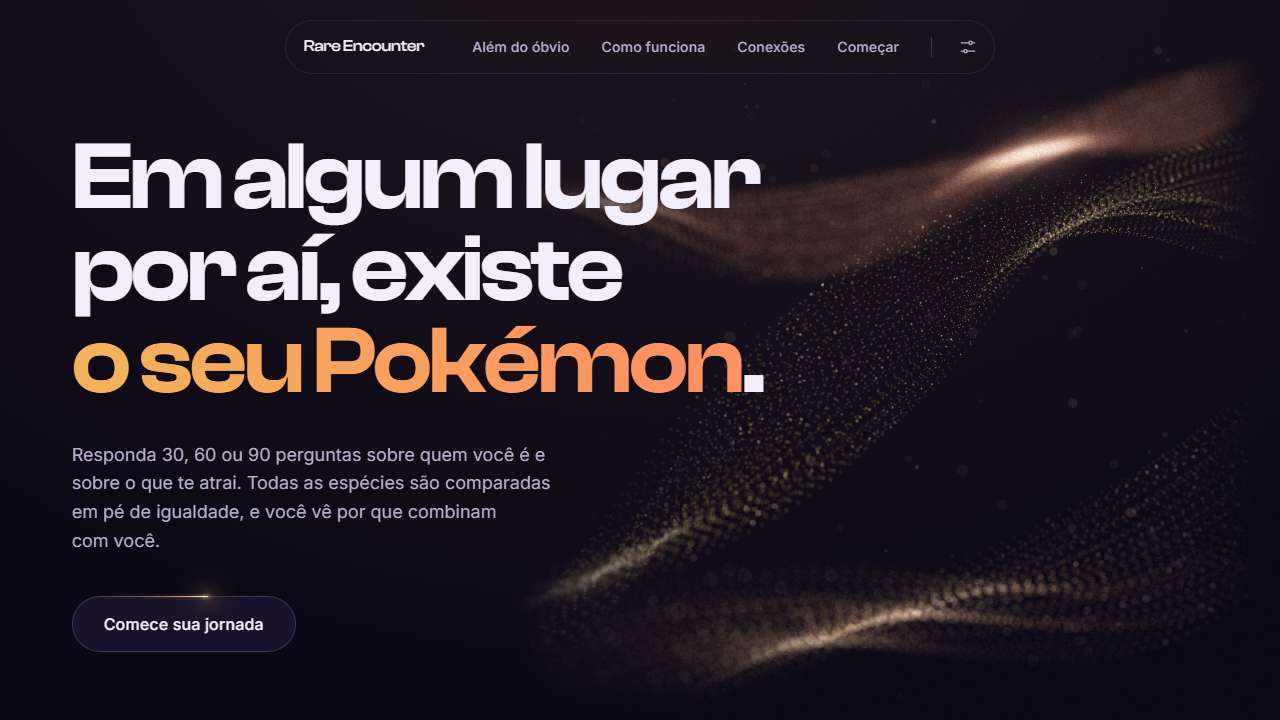
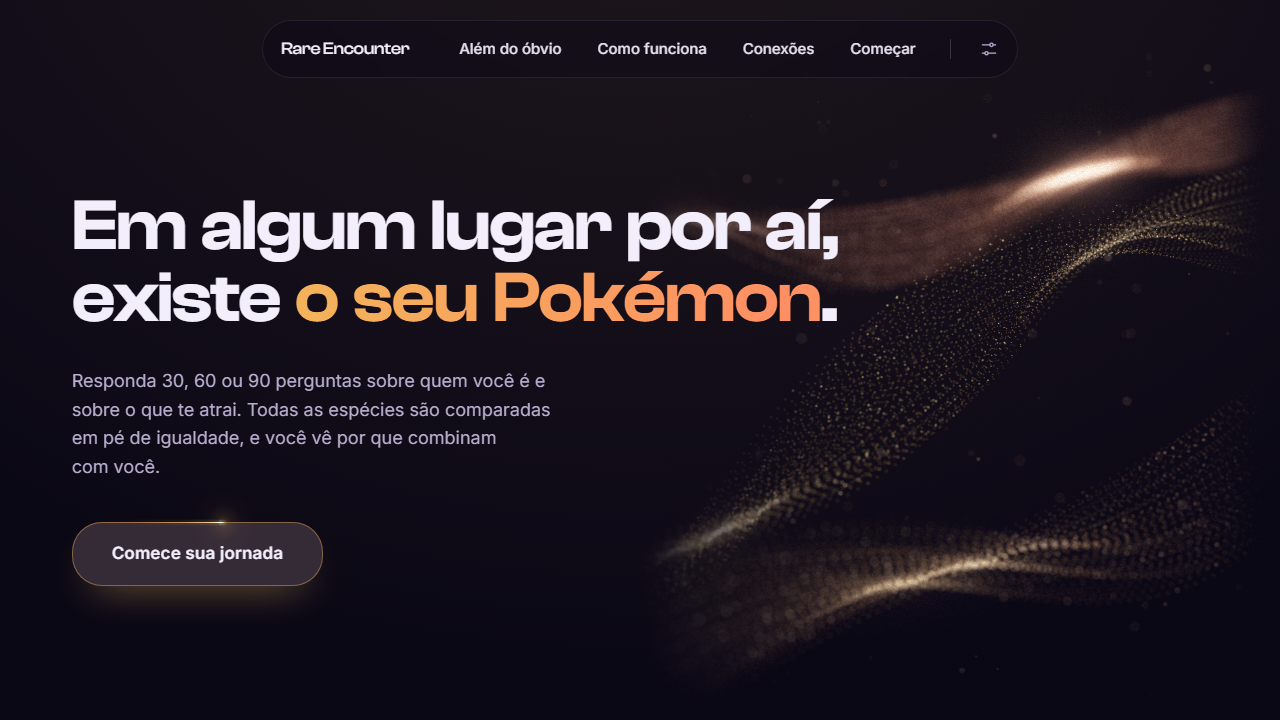
refine(phase-01b): checkpoint 01 hero — headline phrasing, fibers placement, CTA presence, nav legibility, motion timing
Adds vendor integrity check (SHA-256 manifest) to npm run check.

diff --git a/src/pages/landing/Hero.css b/src/pages/landing/Hero.css
@@ -1,7 +1,7 @@
 /*
  * Editorial Split. Copy aligns to the content column's left edge; Ghost Fibers own the
- * right half and bleed to the viewport edge, fading into the night where they meet the type.
- * Below 900px the fibers become the upper backdrop and the copy settles at the bottom.
+ * right side and bleed to the viewport edge, fading out before they reach the type.
+ * Phones and tablets stack: fibers form the upper band, copy settles beneath it.
  */
 .hero {
   --hero-inline-start: max(var(--gutter), calc((100vw - var(--content-max)) / 2 + var(--gutter)));
@@ -11,38 +11,42 @@
   display: grid;
   align-content: end;
   min-height: 100svh;
-  padding: calc(var(--nav-offset) + var(--space-8)) var(--gutter) var(--space-16);
+  padding: calc(var(--nav-offset) + var(--space-8)) var(--gutter) var(--space-12);
   overflow: hidden;
 }
 
 .hero__fibers {
   position: absolute;
-  inset: 0 0 32%;
+  inset: 0 0 46%;
   z-index: -1;
-  mask-image: linear-gradient(to bottom, #000 40%, transparent);
+  opacity: 0.85;
+  mask-image: linear-gradient(to bottom, #000 45%, transparent);
 }
 
 .hero__copy {
   display: grid;
   justify-items: start;
-  max-width: 40rem;
 }
 
+/*
+ * Clash Display's word space is narrow and negative tracking narrows it further, so the
+ * word gap is restored explicitly.
+ */
 .hero__title {
-  max-width: 11ch;
-  font-size: clamp(2.875rem, 1.25rem + 6.4vw, 6rem);
+  font-size: clamp(2.75rem, 1.6rem + 4.9vw, 3.5rem);
   font-weight: var(--weight-semibold);
-  line-height: 0.96;
-  letter-spacing: -0.035em;
+  line-height: 1;
+  letter-spacing: -0.025em;
+  word-spacing: 0.08em;
   text-wrap: balance;
 }
 
-.hero__line {
+.hero__phrase {
   display: inline;
 }
 
-/* Keep the highlight and its closing punctuation together on one line */
-.hero__line--highlight {
+/* The gradient phrase and its full stop never separate */
+.hero__highlight {
   display: inline-block;
   white-space: nowrap;
 }
@@ -54,23 +58,24 @@
 }
 
 .hero__lead {
-  max-width: 44ch;
+  max-width: 40ch;
   margin-block-start: var(--space-6);
   color: var(--color-text-muted);
-  font-size: var(--text-lg);
+  font-size: var(--text-md);
   line-height: var(--leading-body);
 }
 
 .hero__actions {
-  margin-block-start: var(--space-10);
+  margin-block-start: var(--space-8);
 }
 
 .hero .hero__cta {
-  min-height: 3.5rem;
+  min-height: 3.75rem;
   padding-inline: var(--space-8);
-  font-size: var(--text-md);
-  font-weight: var(--weight-medium);
+  font-size: 1.0625rem;
+  font-weight: var(--weight-semibold);
   letter-spacing: var(--tracking-label);
+  box-shadow: 0 18px 40px -22px color-mix(in oklab, var(--accent) 70%, transparent);
 }
 
 .hero .hero__cta:focus-visible {
@@ -78,23 +83,63 @@
   outline-offset: 4px;
 }
 
+/* Tablet and up: one phrase per line, breaking at the comma */
+@media (min-width: 48em) {
+  .hero {
+    min-height: min(100svh, 56rem);
+  }
+
+  .hero__fibers {
+    inset: 0 0 36%;
+  }
+
+  .hero__title {
+    font-size: clamp(3.25rem, 0.6rem + 5.5vw, 4.25rem);
+  }
+
+  .hero__phrase {
+    display: block;
+    white-space: nowrap;
+  }
+
+  .hero__lead {
+    max-width: 44ch;
+    font-size: var(--text-lg);
+  }
+
+  .hero .hero__cta {
+    min-height: 4rem;
+    padding-inline: var(--space-10);
+  }
+}
+
+/* Desktop: the split */
 @media (min-width: 56.25em) {
   .hero {
+    /* Headline size drives where the fibers begin, so the two never fight for space */
+    --hero-title-size: clamp(3.5rem, 1.4rem + 3.9vw, 5.75rem);
+
     align-content: center;
-    padding: calc(var(--nav-offset) + var(--space-8)) var(--gutter) var(--space-16)
+    min-height: 100svh;
+    padding: calc(var(--nav-offset) + var(--space-6)) var(--gutter) var(--space-16)
       var(--hero-inline-start);
   }
 
   .hero__fibers {
-    inset: 0 0 0 38%;
-    mask-image: linear-gradient(to right, transparent, #000 32%);
+    inset: 0 0 0 calc(var(--hero-inline-start) + var(--hero-title-size) * 7.5);
+    opacity: 1;
+    mask-image: linear-gradient(to right, transparent, #000 38%);
   }
 
-  .hero__copy {
-    max-width: min(46rem, 62%);
+  .hero__title {
+    font-size: var(--hero-title-size);
   }
 
   .hero__lead {
     margin-block-start: var(--space-8);
+  }
+
+  .hero__actions {
+    margin-block-start: var(--space-10);
   }
 }

diff --git a/src/pages/landing/Hero.tsx b/src/pages/landing/Hero.tsx
@@ -10,13 +10,18 @@ import './Hero.css';
 const GhostFibers = lazy(() => import('../../vendor/react-bits/GhostFibers/GhostFibers'));
 
 const EASE: [number, number, number, number] = [0.16, 1, 0.3, 1];
+const DURATION = 0.9;
 
-/** Cinematic staged entry: one sequence, played once. Fibers run their own built-in intro. */
+/**
+ * Cinematic staged entry: one sequence, played once, done in about 1.75s.
+ * The two headline phrases land first, then the lead and the CTA. The fibers fade in
+ * through their own built-in intro behind it.
+ */
 const STAGE = {
-  line: 0.15,
-  highlight: 0.45,
-  lead: 0.85,
-  cta: 1.05,
+  opening: 0.1,
+  payoff: 0.32,
+  lead: 0.68,
+  cta: 0.84,
 } as const;
 
 interface HeroProps {
@@ -35,9 +40,9 @@ export function Hero({ ctaTarget }: HeroProps) {
     reduceMotion
       ? { initial: false as const }
       : {
-          initial: { opacity: 0, y: '0.35em', filter: 'blur(10px)' },
+          initial: { opacity: 0, y: '0.25em', filter: 'blur(6px)' },
           animate: { opacity: 1, y: 0, filter: 'blur(0px)' },
-          transition: { duration: 1.1, delay, ease: EASE },
+          transition: { duration: DURATION, delay, ease: EASE },
         };
 
   return (
@@ -54,19 +59,23 @@ export function Hero({ ctaTarget }: HeroProps) {
       </div>
 
       <div className="hero__copy">
+        {/* Two phrases: they break at the comma from tablet up, and flow freely on phones */}
         <h1 id={titleId} className="hero__title">
-          <motion.span className="hero__line" {...enter(STAGE.line)}>
-            {t('landing.hero.before')}
+          <motion.span className="hero__phrase" {...enter(STAGE.opening)}>
+            {t('landing.hero.opening')}
           </motion.span>{' '}
-          <motion.span className="hero__line hero__line--highlight" {...enter(STAGE.highlight)}>
-            <GradientText
-              className="hero__gradient"
-              colors={[colors.accent, colors.accent2, colors.accent]}
-              animationSpeed={10}
-            >
-              {t('landing.hero.highlight')}
-            </GradientText>
-            {t('landing.hero.after')}
+          <motion.span className="hero__phrase" {...enter(STAGE.payoff)}>
+            {t('landing.hero.bridge')}{' '}
+            <span className="hero__highlight">
+              <GradientText
+                className="hero__gradient"
+                colors={[colors.accent, colors.accent2, colors.accent]}
+                animationSpeed={10}
+              >
+                {t('landing.hero.highlight')}
+              </GradientText>
+              {t('landing.hero.after')}
+            </span>
           </motion.span>
         </h1>
 
@@ -81,10 +90,10 @@ export function Hero({ ctaTarget }: HeroProps) {
             className="hero__cta"
             color={colors.accent}
             trailColor={colors.accent2}
-            backgroundColor={colors.surface}
+            backgroundColor={`color-mix(in oklab, ${colors.accent} 16%, ${colors.surface})`}
             textColor={colors.text}
-            borderColor={colors.line}
-            radius={28}
+            borderColor={`color-mix(in oklab, ${colors.accent} 42%, transparent)`}
+            radius={30}
           >
             {t('landing.hero.cta')}
           </StarBorder>

diff --git a/src/components/nav/SiteNav.css b/src/components/nav/SiteNav.css
@@ -61,7 +61,7 @@
    */
   .liquid-nav {
     --nav-pad: 0.375rem;
-    --nav-row: 2.5rem;
+    --nav-row: 2.75rem;
 
     display: flex;
     align-items: center;
@@ -75,11 +75,14 @@
       backdrop-filter var(--duration-slow) var(--ease-out);
   }
 
-  /* Morph: open at the top of the page (edge only), solid once reading starts */
+  /*
+   * Morph: airier at the top of the page (wider spacing, lighter veil that still keeps the
+   * labels legible over the fibers), solid once reading starts.
+   */
   .site-nav[data-scrolled='false'] .liquid-nav {
     gap: var(--space-4);
-    background: transparent;
-    backdrop-filter: none;
+    background: color-mix(in oklab, var(--color-bg) 42%, transparent);
+    backdrop-filter: blur(10px);
     box-shadow: none;
   }
 
@@ -89,7 +92,7 @@
   }
 
   .liquid-nav .logo__text {
-    font-size: var(--text-md);
+    font-size: 1.0625rem;
   }
 }
 
@@ -104,13 +107,13 @@
   position: relative;
   display: inline-flex;
   align-items: center;
-  min-height: var(--nav-row, 2.5rem);
-  padding-inline: var(--space-4);
+  min-height: var(--nav-row, 2.75rem);
+  padding-inline: 1.125rem;
   border-radius: var(--radius-pill);
-  color: var(--color-text-muted);
-  font-size: var(--text-sm);
+  color: color-mix(in oklab, var(--color-text) 78%, var(--color-text-muted));
+  font-size: 0.9375rem;
   font-weight: var(--weight-medium);
-  letter-spacing: var(--tracking-label);
+  letter-spacing: 0;
   text-decoration: none;
   transition: color var(--duration-fast) var(--ease-out);
 }

diff --git a/src/i18n/i18n.test.ts b/src/i18n/i18n.test.ts
@@ -41,7 +41,7 @@ describe('message catalogs', () => {
 describe('landing headline', () => {
   const assemble = (locale: (typeof LOCALES)[number]) => {
     const m = MESSAGES[locale];
-    return `${m['landing.hero.before']} ${m['landing.hero.highlight']}${m['landing.hero.after']}`;
+    return `${m['landing.hero.opening']} ${m['landing.hero.bridge']} ${m['landing.hero.highlight']}${m['landing.hero.after']}`;
   };
 
   it('reassembles the exact approved English source', () => {

diff --git a/src/i18n/messages/es.ts b/src/i18n/messages/es.ts
@@ -38,7 +38,8 @@ export const es: Messages = {
   'landing.nav.discovery': 'Cómo funciona',
   'landing.nav.connection': 'Conexiones',
   'landing.nav.begin': 'Comenzar',
-  'landing.hero.before': 'En algún lugar, ahí afuera, está',
+  'landing.hero.opening': 'En algún lugar, ahí afuera,',
+  'landing.hero.bridge': 'está',
   'landing.hero.highlight': 'tu Pokémon',
   'landing.hero.after': '.',
   'landing.hero.lead':

diff --git a/src/i18n/messages/pt-BR.ts b/src/i18n/messages/pt-BR.ts
@@ -38,7 +38,8 @@ export const ptBR: Messages = {
   'landing.nav.discovery': 'Como funciona',
   'landing.nav.connection': 'Conexões',
   'landing.nav.begin': 'Começar',
-  'landing.hero.before': 'Em algum lugar por aí, existe',
+  'landing.hero.opening': 'Em algum lugar por aí,',
+  'landing.hero.bridge': 'existe',
   'landing.hero.highlight': 'o seu Pokémon',
   'landing.hero.after': '.',
   'landing.hero.lead':

diff --git a/src/i18n/messages/en.ts b/src/i18n/messages/en.ts
@@ -36,7 +36,8 @@ export const en = {
   'landing.nav.discovery': 'How it works',
   'landing.nav.connection': 'Connections',
   'landing.nav.begin': 'Begin',
-  'landing.hero.before': "Somewhere out there, there's",
+  'landing.hero.opening': 'Somewhere out there,',
+  'landing.hero.bridge': "there's",
   'landing.hero.highlight': 'your Pokémon',
   'landing.hero.after': '.',
   'landing.hero.lead':

diff --git a/docs/reports/PHASE_01B_CP01_REPORT.md b/docs/reports/PHASE_01B_CP01_REPORT.md
@@ -54,3 +54,46 @@ Branch `phase/01-visual-identity` (from `main` @ `aad7b85`). Not merged, not pus
 
 ## Pending (unchanged)
 D1 final logo (text placeholder) · D2 art-only cards · D3 the card serif will be proposed in checkpoint 02 · D10 Clash Display hosting.
+
+## C. Or7 review — refinements (round 1)
+Measured with a layout probe at 360–1920 px, then verified on the real captures.
+- **Headline:**
+  - On tablet and desktop it breaks at its natural phrase: `Somewhere out there, / there's your Pokémon.` It used to fall into 3–4 lines with the artificial "there, there's" split.
+  - It is still one sentence, 2 lines, no overflow, from 768 to 1920 px. Phones keep natural wrapping (3 lines at 412, 4 at 360).
+  - The text is unchanged: i18n now groups it as `opening / bridge / highlight / after`, and a test reassembles the exact English source.
+  - Word gap restored (`word-spacing: 0.08em`) and tracking eased from -0.035em to -0.025em. Desktop size is fluid from 3.5rem to 5.75rem.
+  - Gradient Text is still only on `your Pokémon`.
+- **Ghost Fibers:** the original component is unchanged (`check:vendor` passes). Only the container changed:
+  - On desktop the fibers start where the headline is about 75% across, scaled to the headline's own size, and fade in over the first 38% of their width. The headline now ends inside that fade at every width (for example text right edge 856 px vs. fibers opaque from about 867 px at 1280).
+  - Mobile and tablet bands are tighter, with opacity 0.85 on small screens.
+- **Star Border CTA:**
+  - Size 60 px (64 px from tablet up), semibold 17 px.
+  - Surface tinted with the accent, a stronger accent track and a soft accent shadow.
+  - The original star effect is unchanged. Still `href="#begin"`.
+- **Liquid Nav:**
+  - Labels go from 14 px muted to 15 px brighter, on a 44 px row.
+  - The top state gets a light veil so labels stay legible over the fibers.
+  - Morphing to solid on scroll is unchanged, and so is the mobile Top Bar.
+- **Responsiveness:**
+  - Tablet hero height is capped at 56 rem, so the next section starts within the first screen and there is no dead band.
+  - On phones the fibers band ends where the headline begins.
+- **Motion:**
+  - The entry finishes in about 1.75 s (it was about 2.15 s).
+  - Each stage takes 0.9 s, with lighter blur (6 px) and a smaller rise.
+  - Stages start at 0.10 / 0.32 / 0.68 / 0.84 s.
+  - No new animations. Reduced motion is unchanged and tested.
+- **Vendor isolation:**
+  - **Errors are not hidden:** a probe file with wrong prop types (`speed="fast"`, `radius="30px"`, `colors="#fff"`) failed `tsc -b` with 3 errors. The app checks every call against the components' real types.
+  - **Originals are protected:** the new `npm run check:vendor` compares SHA-256 against `manifest.json`. A deliberate one-line edit was detected and then reverted. It is now part of `npm run check`.
+
+**Checks:**
+- typecheck ✅
+- lint ✅
+- Vitest 41/41 ✅
+- Playwright 22 passed, 2 skipped (desktop-only nav test) ✅
+- safety ✅
+- vendor integrity ✅
+- build ✅
+- Impeccable detector: 0 findings
+
+**Evidence:** `docs/reports/phase-01b-cp01/` has been refreshed.

diff --git a/docs/EXECUTION_LOG.md b/docs/EXECUTION_LOG.md
@@ -16,5 +16,6 @@ Phase gates, approvals and integrations. Each phase stops for explicit Or7 appro
 | 2026-10-28 | 01B — Landing & Motion Experience | Plan prepared (`docs/PHASE_01B_PLAN.md`); **awaiting authorization** | — |
 | 2026-10-28 | 01B — Landing & Motion Experience | Plan **approved by Or7**; D1–D10 resolved; two mandatory checkpoints | — |
 | 2026-10-28 | 01B — Checkpoint 01 | Structural landing + hero implemented; awaiting Or7 visual review (`docs/reports/PHASE_01B_CP01_REPORT.md`) | — |
+| 2026-10-28 | 01B — Checkpoint 01 | Hero refinements (round 1) after Or7 review; awaiting approval | — |
 
 Carried into Phase 01: Clash Display files and license, final logo file, art-only archetype cards.
